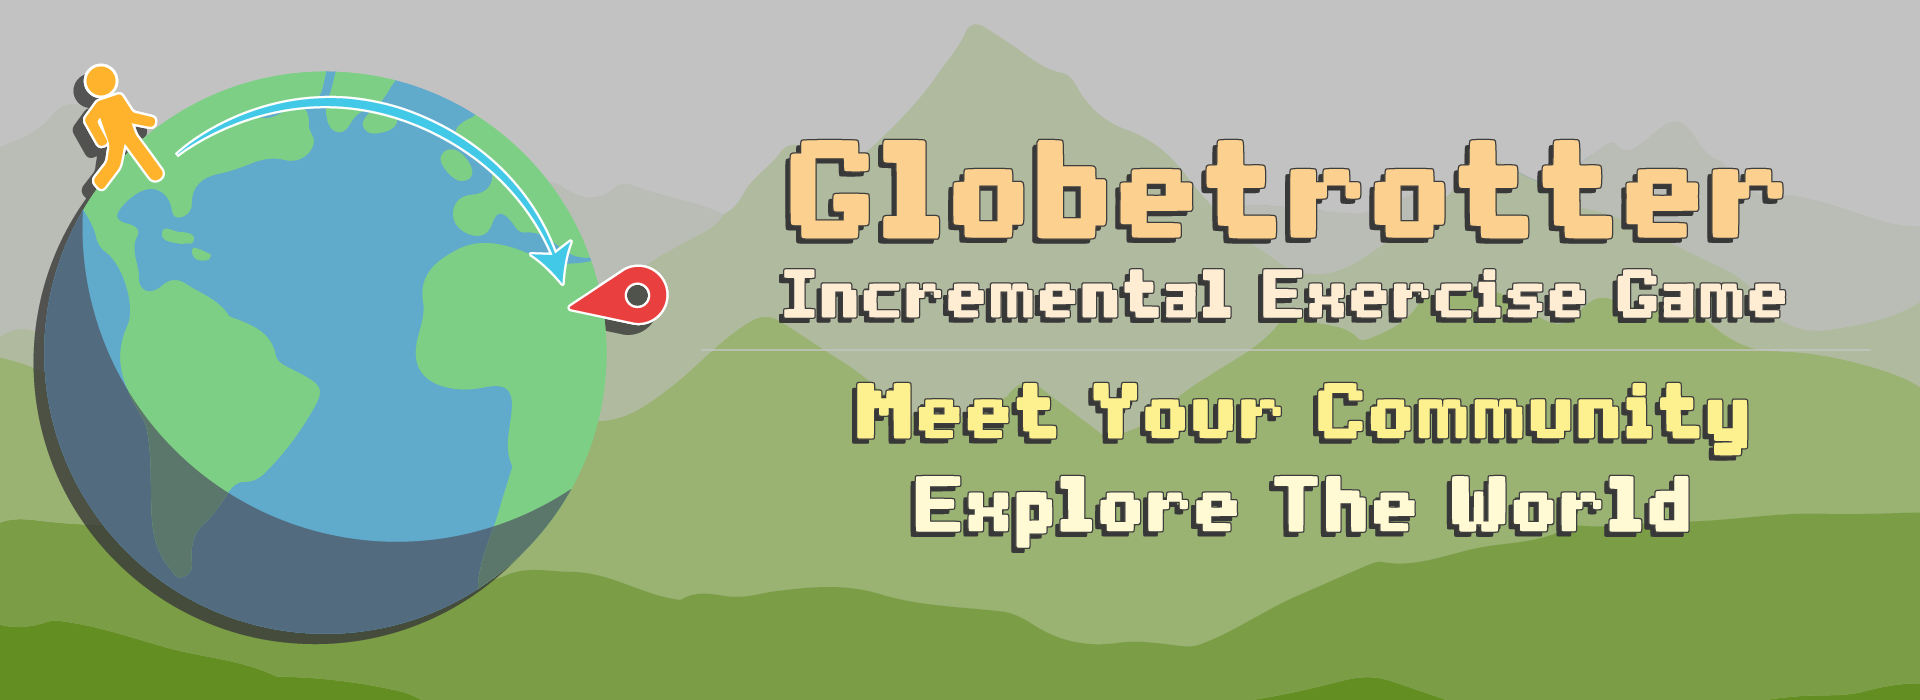
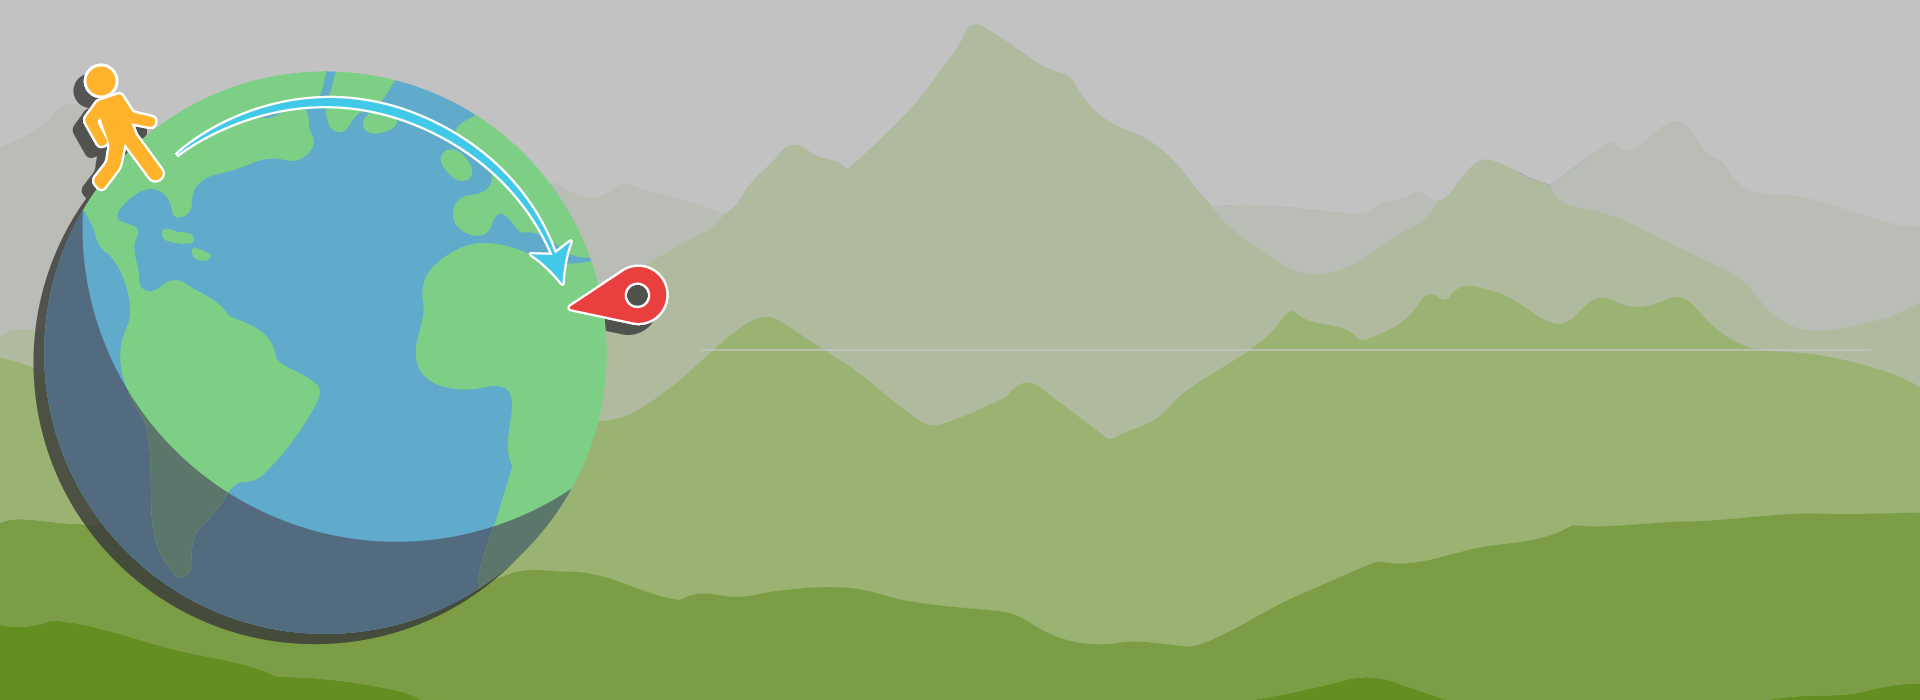
Finished landing page

Changed region(s): [[0.4062, 0.18, 0.9375, 0.48], [0.4688, 0.66, 0.9062, 0.78], [0.4375, 0.54, 0.9375, 0.66]]

diff --git a/public/scripts/index.js b/public/scripts/index.js
@@ -1,4 +1,18 @@
+// Adjust banner text
+function adjustBannerSize() {
+    var textHeight = $('.banner-txt').height();
+    var bannerHeight = $('.banner-img').height();
+    var navHeight = $('.navbar').height();
+    var topHeight = (bannerHeight - textHeight) / 2;
+    var top = topHeight + navHeight + 13;
+    $('.banner-txt').css({
+        'top' : top
+    })
+}
+adjustBannerSize();
+
 $(document).ready(function () {
+    adjustBannerSize();
     firebase.auth().onAuthStateChanged(function (user) {
         if (user) {
             loggedInUser = user;
@@ -9,4 +23,45 @@ $(document).ready(function () {
             console.log("No user is logged in.");
         }
     });
+})
+
+$(window).on('resize', function(){
+    adjustBannerSize();
+});
+
+// When the user clicks the play button, it redirects them to the login screen
+function playNow() {
+    window.location.href = "login.html";
+}
+
+// Adjusts banner text when navbar opens
+function bannerNavOpen() {
+    var textHeight = $('.banner-txt').height();
+    var bannerHeight = $('.banner-img').height();
+    var navHeight = $('.navbar').height();
+    var topHeight = (bannerHeight - textHeight) / 2;
+    var top = topHeight + navHeight + 93;
+    $('.banner-txt').animate({
+        'top' : top
+    }, 200, 'linear')
+}
+
+// Adjusts banner text when navbar closes
+function bannerNavClose() {
+    var textHeight = $('.banner-txt').height();
+    var bannerHeight = $('.banner-img').height();
+    var navHeight = $('.navbar').height();
+    var topHeight = (bannerHeight - textHeight) / 2;
+    var top = topHeight + navHeight - 67;
+    $('.banner-txt').animate({
+        'top' : top
+    }, 200, 'linear')
+}
+
+$('.navbar').on('show.bs.collapse', function () {
+    bannerNavOpen();
+})
+
+$('.navbar').on('hide.bs.collapse', function () {
+    bannerNavClose();
 })

diff --git a/public/scripts/stats.js b/public/scripts/stats.js
@@ -107,6 +107,17 @@ function openReview(id) {
     $("#reviewModal").modal("toggle");
 }
 
+function createEntry(doc, list) {
+    var id = doc.id;
+    var date = (doc.data().date).toDate();
+    var newdom = document.createElement("li");
+    newdom.id = id;
+    newdom.innerHTML = date;
+    newdom.setAttribute("class", "list-group-item entry-color entries result-hover");
+    newdom.addEventListener('click', function() {openReview(id)});
+    list.appendChild(newdom);
+}
+
 function displaySessions() {
     var list = document.getElementById("list-entries");
     if (loggedInUser != null) {
@@ -116,14 +127,7 @@ function displaySessions() {
         .get()
         .then(function (snap) {
             snap.forEach(function (doc) {
-                var id = doc.id;
-                var date = (doc.data().date).toDate();
-                var newdom = document.createElement("li");
-                newdom.id = id;
-                newdom.innerHTML = date;
-                newdom.setAttribute("class", "list-group-item entry-color entries result-hover");
-                newdom.addEventListener('click', function() {openReview(id)});
-                list.appendChild(newdom);
+                createEntry(doc, list);
             })
         })
     } else {

diff --git a/public/index.html b/public/index.html
@@ -30,7 +30,8 @@
         <div class="container-fluid">
             <a class="navbar-brand" href="index.html">Globetrotter</a>
             <button class="navbar-toggler" type="button" data-bs-toggle="collapse" data-bs-target="#navbarNav"
-                aria-controls="navbarNav" aria-expanded="false" aria-label="Toggle navigation">
+                aria-controls="navbarNav" aria-expanded="false" aria-label="Toggle navigation"
+                ontoggle="adjustBannerSize()">
                 <span class="navbar-toggler-icon"></span>
             </button>
             <div class="collapse navbar-collapse" id="navbarNav">
@@ -48,8 +49,14 @@
 
     <div id="banner">
         <img src="images/banner.png" class="banner-img" />
+        <img src="images/banner-text.png" class="banner-txt animated fadeInRight" />
     </div>
+    <hr />
     <div class="container">
+        <div class="d-grid gap-2 mt-3">
+            <button type="button" class="btn btn-primary btn-lg animated fadeInBottom" onclick="playNow()">Play
+                Now!</button>
+        </div>
     </div>
 
     <div class="filler"></div>

diff --git a/public/styles/index.css b/public/styles/index.css
@@ -1,6 +1,54 @@
+#banner {
+    box-shadow: 3px 5px 6px rgb(107, 107, 107);
+}
+
 .banner-img {
     filter: brightness(90%);
     width: 100%;
     height: auto;
 }
-  
+
+.animated {
+    animation-duration: 3s;
+}
+
+.banner-txt {
+    position: absolute;
+    width: 55%;
+    left: 40%;
+    z-index: 100;
+}
+
+.btn-lg {
+    font-size: 2.5em;
+}
+
+.fadeInRight {
+    animation-name: fadeInRight;
+}
+
+.fadeInBottom {
+    animation-name: fadeInBottom;
+}
+
+@keyframes fadeInRight {
+    0% {
+       opacity: 0;
+       transform: translateX(30px);
+    }
+    100% {
+       opacity: 1;
+       transform: translateX(0);
+    }
+ }
+
+ @keyframes fadeInBottom {
+    0% {
+        opacity: 0;
+        transform: translateY(30px);
+    }
+    100% {
+        opacity: 1;
+        tranform: translateY(0);
+    }
+ }
